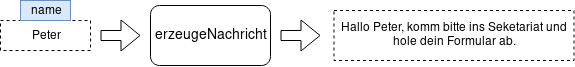
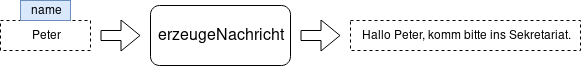
Tippfehler korrigiert und Aufgabe etwas weniger umständlich gemacht.

diff --git a/server/tutorials.js b/server/tutorials.js
@@ -696,7 +696,7 @@ module.exports.tutorials = {
       
       <p><img src="/images/l6_funktion_code.png" class="img-thumbnail"></p>
       
-      <p>Das hier ist ein Ameisenvolk, dass Zahlen quadrieren kann. Ereignisse werden nicht benötigt und können aus dem Code gelöscht werden. In Zeile 3 bis 5 ist die eigentliche Definition unserer Funktion. Begonnen wird mit dem Schlüsselwort <code>function</code>, dahinter folgt der Name der Funktion. In die runden Klammern wird Parametername geschrieben. In unserem Fall heißt die Funktion 'quadriere' und der Parameter hat den Namen 'x'. Du kannst den Namen des Parameters frei auswählen, selbst wenn in der Vorlage der Aufgabe ein anderer Name vorgeschlagen wird. Wichtig ist nur, dass du innerhalb der Funktion den gleichen Namen nutzt, wie du ihn in der Zeile 3 definiert hast. In Zeile 3 öffnen wir außerdem eine geschweifte Klammern und schließen sie wieder in Zeile 5. 
+      <p>Das hier ist ein Ameisenvolk, das Zahlen quadrieren kann. Ereignisse werden nicht benötigt und können aus dem Code gelöscht werden. In Zeile 3 bis 5 ist die eigentliche Definition unserer Funktion. Begonnen wird mit dem Schlüsselwort <code>function</code>, dahinter folgt der Name der Funktion. In die runden Klammern wird der Parametername geschrieben. In unserem Fall heißt die Funktion 'quadriere' und der Parameter hat den Namen 'x'. Du kannst den Namen des Parameters frei auswählen, selbst wenn in der Vorlage der Aufgabe ein anderer Name vorgeschlagen wird. Wichtig ist nur, dass du innerhalb der Funktion den gleichen Namen nutzt, wie du ihn in der Zeile 3 definiert hast. In Zeile 3 öffnen wir außerdem eine geschweifte Klammer und schließen sie wieder in Zeile 5. 
       </p>
       
       <p>Innerhalb der geschweiften Klammern kommt nun der Code für die Berechnung. In unserem Fall ist das recht klar: Wir nehmen die Eingabe und multiplizieren sie mit sich selbst. Das wird in Zeile 4 gemacht. Um zu zeigen, dass das bereits unsere Antwort ist, schreiben wir vor die Rechnung das Schlüsselwort <code>return</code>. Damit weiß die Funktion, dass das ihre Ausgabe ist. Und fertig! Damit haben wir unsere erste Funktion definiert.

diff --git a/server/exercises.js b/server/exercises.js
@@ -328,7 +328,7 @@ module.exports.exercises = {
       <p>Als nächstes gibt es im Sekretariat einige Aufgaben zu erledigen. Einige Schülerinnen und Schüler sollen eine Benachrichtigung bekommen, die zum Beispiel so aussieht:
       </p>
       
-      <p><code style="color:brown">Hallo Peter, komm bitte ins Sekretariat und hole dein Formular ab.</code></p>
+      <p><code style="color:brown">Hallo Peter, komm bitte ins Sekretariat.</code></p>
       </p>
       
       <p>Da kannst du mit einem Programm helfen. Das Grundgerüst enthält wieder eine Funktion. Diese Funktion erhält als Parameter den Namen des Schülers. Erzeuge daraus die entsprechende Nachricht:

diff --git a/public/src/Simulation/60-Level.js b/public/src/Simulation/60-Level.js
@@ -1012,7 +1012,7 @@
         test.addTest({
           title:title + " " + name,
           description:"Erzeuge Nachricht an " + name,
-          expected: "Hallo " + name + ", komm bitte ins Seketariat und hole dein Formular ab.",
+          expected: "Hallo " + name + ", komm bitte ins Sekretariat.",
           userFunc:userFunc,
           params:[name]
         })
